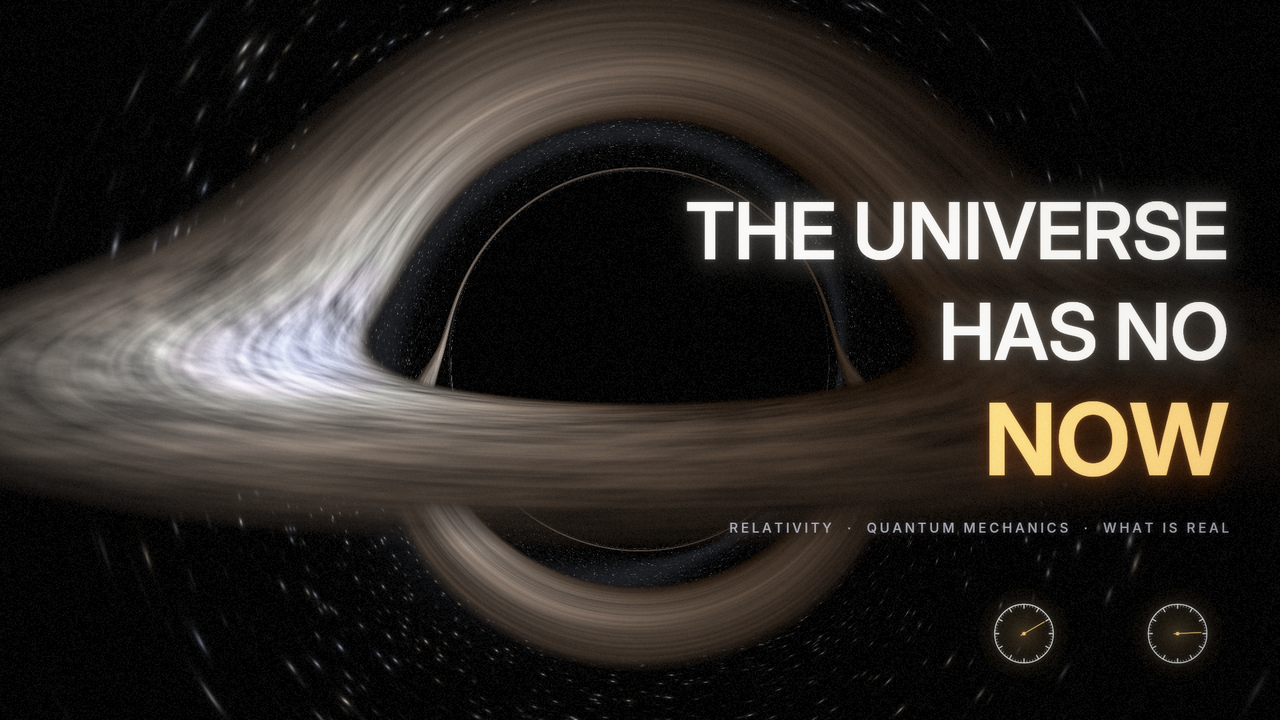
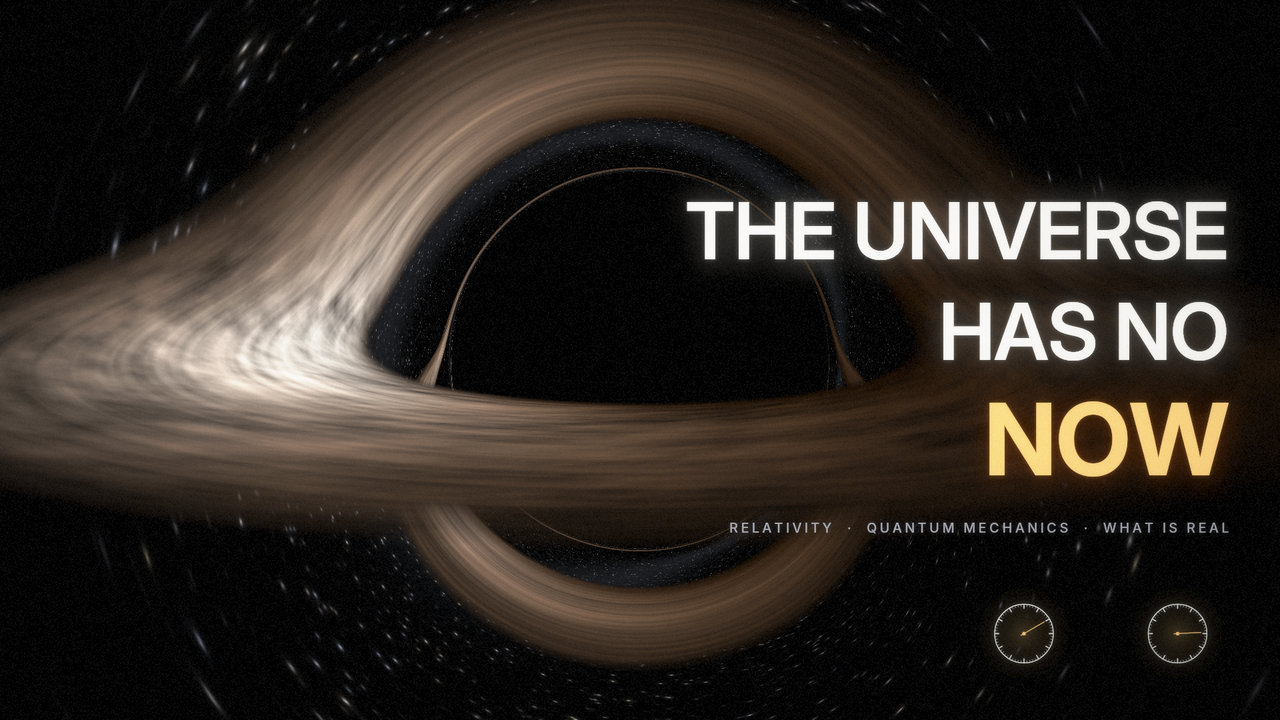
Iteration pass: warm-disk thumbnail, self-critique, landing page link
Claude-Session: https://claude.ai/code/session_01MwGfRvcYQqWKqkZpZXRbcU

Changed region(s): [[0.0938, 0.2444, 0.3438, 0.5806]]

diff --git a/the-universe-has-no-now/index.html b/the-universe-has-no-now/index.html
@@ -90,7 +90,7 @@
     <ul>
       <li><a href="film.mp4">film.mp4</a> · <a href="trailer.mp4">trailer.mp4</a> · <a href="short-01.mp4">short-01</a> · <a href="short-02.mp4">short-02</a> · <a href="short-03.mp4">short-03</a> · <a href="thumbnail.png">thumbnail.png</a></li>
       <li><a href="captions.srt">captions.srt</a> · <a href="captions.vtt">captions.vtt</a></li>
-      <li><a href="STORYBOARD.md">STORYBOARD.md</a> · <a href="SOURCES.md">SOURCES.md</a> · <a href="BUILD.md">BUILD.md</a> · <a href="docs/science-matrix.md">science matrix</a> · <a href="docs/QC-REPORT.md">QC report</a> · <a href="README.md">README</a></li>
+      <li><a href="STORYBOARD.md">STORYBOARD.md</a> · <a href="SOURCES.md">SOURCES.md</a> · <a href="BUILD.md">BUILD.md</a> · <a href="docs/science-matrix.md">science matrix</a> · <a href="docs/QC-REPORT.md">QC report</a> · <a href="docs/SELF-CRITIQUE.md">self-critique</a> · <a href="README.md">README</a></li>
       <li>Source: <code>source/</code> (renderer, scenes, audio), <code>tests/</code>, <code>Makefile</code></li>
     </ul>
   </section>

diff --git a/the-universe-has-no-now/source/mux.py b/the-universe-has-no-now/source/mux.py
@@ -16,7 +16,7 @@ else:
     vbr = int((limit * 8 / dur - 256e3) / 1000 * 0.97)
     print(f"master {size//2**20} MB > limit; re-encoding video at {vbr} kb/s (two-pass)")
     log = os.path.join(ROOT, "build", "x264pass")
-    subprocess.run(["ffmpeg", "-y", "-loglevel", "error", "-i", video, "-c:v", "libx264", "-preset", "slow", "-b:v", f"{vbr}k", "-pass", "1", "-passlogfile", log, "-an", "-f", "null", "/dev/null"], check=True)
-    subprocess.run(["ffmpeg", "-y", "-loglevel", "error", "-i", video, "-i", audio, "-c:v", "libx264", "-preset", "slow", "-b:v", f"{vbr}k", "-pass", "2", "-passlogfile", log,
+    subprocess.run(["ffmpeg", "-y", "-loglevel", "error", "-i", video, "-c:v", "libx264", "-preset", "medium", "-b:v", f"{vbr}k", "-pass", "1", "-passlogfile", log, "-an", "-f", "null", "/dev/null"], check=True)
+    subprocess.run(["ffmpeg", "-y", "-loglevel", "error", "-i", video, "-i", audio, "-c:v", "libx264", "-preset", "medium", "-b:v", f"{vbr}k", "-pass", "2", "-passlogfile", log,
                     "-pix_fmt", "yuv420p", "-c:a", "aac", "-b:a", "256k", "-ar", "48000", "-shortest", "-movflags", "+faststart", out], check=True)
     print("film.mp4", os.path.getsize(out) // 2 ** 20, "MB")

diff --git a/the-universe-has-no-now/docs/SELF-CRITIQUE.md b/the-universe-has-no-now/docs/SELF-CRITIQUE.md
@@ -1,0 +1,60 @@
+# Self-critique and the iteration pass
+
+The first full cut was watched (as frame tiles, stills and automatic measurements — this environment has no
+speakers) with six hats on. What each one said, and what was changed before the final cut.
+
+## Director — does it have personality?
+Yes: one typographic voice (Inter, tracked caps for labels, mono for measured values, serif for equations),
+one palette (amber = time/gravity, cyan = light/quantum, violet = the open question), black silences at act
+boundaries, and a recurring two-note "clock" motif. The human moments (observers on the curved horizon,
+the figure crossed by the light pulse, the astronaut drifting to the horizon, the figure before the signal
+screen) are silhouettes, never presenters. **Changed:** the two observers in the wide opening shot and the three
+observers in the postulates shot were nearly invisible (black on black); they are now rim-lit.
+
+## Editor — are there shots that could go?
+The cut is narration-driven, so no shot overstays its sentence. Pauses were tightened globally (×0.75) and six
+sentences were cut after the first timing pass (the first assembly ran 12.5 min; the final is 11.6). The scale
+act could lose the human-body stage without harm; it was kept because it is the only quiet, human-sized beat in
+the act. The credits were shortened from 22 to 17 s.
+
+## Scientist — any misleading simplification?
+- The "rubber-sheet" grid is an embedding diagram; the narration never calls it a mechanism and the orbit shot
+  says "as straight as it can through a geometry that is bent".
+- The black hole is Schwarzschild, thin-disk, no radiative transfer. The on-screen caption says exactly that.
+- The falling clock uses the static-observer redshift factor, not the full infall Doppler factor; the narration
+  only claims the qualitative behaviour (slows, seems to stop), which is correct.
+- The entanglement shot shows aligned-setting anti-correlations; the Bell inset carries the angle dependence.
+- "Twelve decimal places" for the electron g-factor is defensible (Fan et al. 2023 vs. QED with independent α).
+**Changed:** nothing in the physics; the claim matrix was extended with the simplifications list.
+
+## Viewer — would I get bored?
+The longest single idea is the black hole (≈80 s across six shots). It earns it: the camera moves, the labels
+change, and the human figure arrives at the end. The weakest stretch is Act VIII's split screen (≈50 s of two
+grids). It is carried by the narration and the tritone build. A future pass could add one more image there
+(e.g. a Feynman diagram or the LHC event display).
+
+## Designer — are there memorable images?
+The Einstein ring forming from arcs, the Minkowski boost with the tilting present, the ray-traced far-side
+arcs over the shadow, the two-slit detections resolving into fringes, the crossed-out "MESSAGE ?".
+**Changed:** the accretion disk was grey-beige in the first cut (peak temperature too high); the colour
+temperature profile was lowered (T_peak 4800 → 3800 K) so the disk reads amber with a blue-white approaching
+side and deep-orange receding side, as the narration describes.
+
+## Engineer — can it be reproduced?
+`make all` rebuilds everything from `script.py`; every intermediate is cached and the picture render is
+resumable in 600-frame segments (the container restarted once mid-render; the resumable design was added then).
+Tests pin the physics (b_crit = 3√3 M, 4M/b deflection, orbital normalisation, on-screen Lorentz values) and
+the deliverables (container, loudness, frozen/black-frame scan).
+
+## Audio — measured, not heard
+The mix is −14.2 LUFS integrated, LRA 5.7 LU; true peak was pushed to 0.3 dBFS by the AAC encode in the first
+cut, so the loudnorm ceiling was lowered to −2.5 dBTP before the final mux. Narration sits ≈ 9–11 LU above the
+score under speech (ducking) and the score rises in the silences.
+
+## Known weaknesses that remain
+- The voice is a small open-source TTS model (Kokoro-82M). It is clean and well paced but a human narrator — or
+  a premium TTS — would add more intention; the sandbox's network policy blocked the only premium voice service
+  available (its download CDN is denied), so it was not used.
+- 1080p, not 4K: a CPU-only container; the renderer is resolution-independent.
+- The "human" element is silhouettes only; no generated imagery was available, and that is a deliberate,
+  consistent choice rather than a stylistic afterthought.
